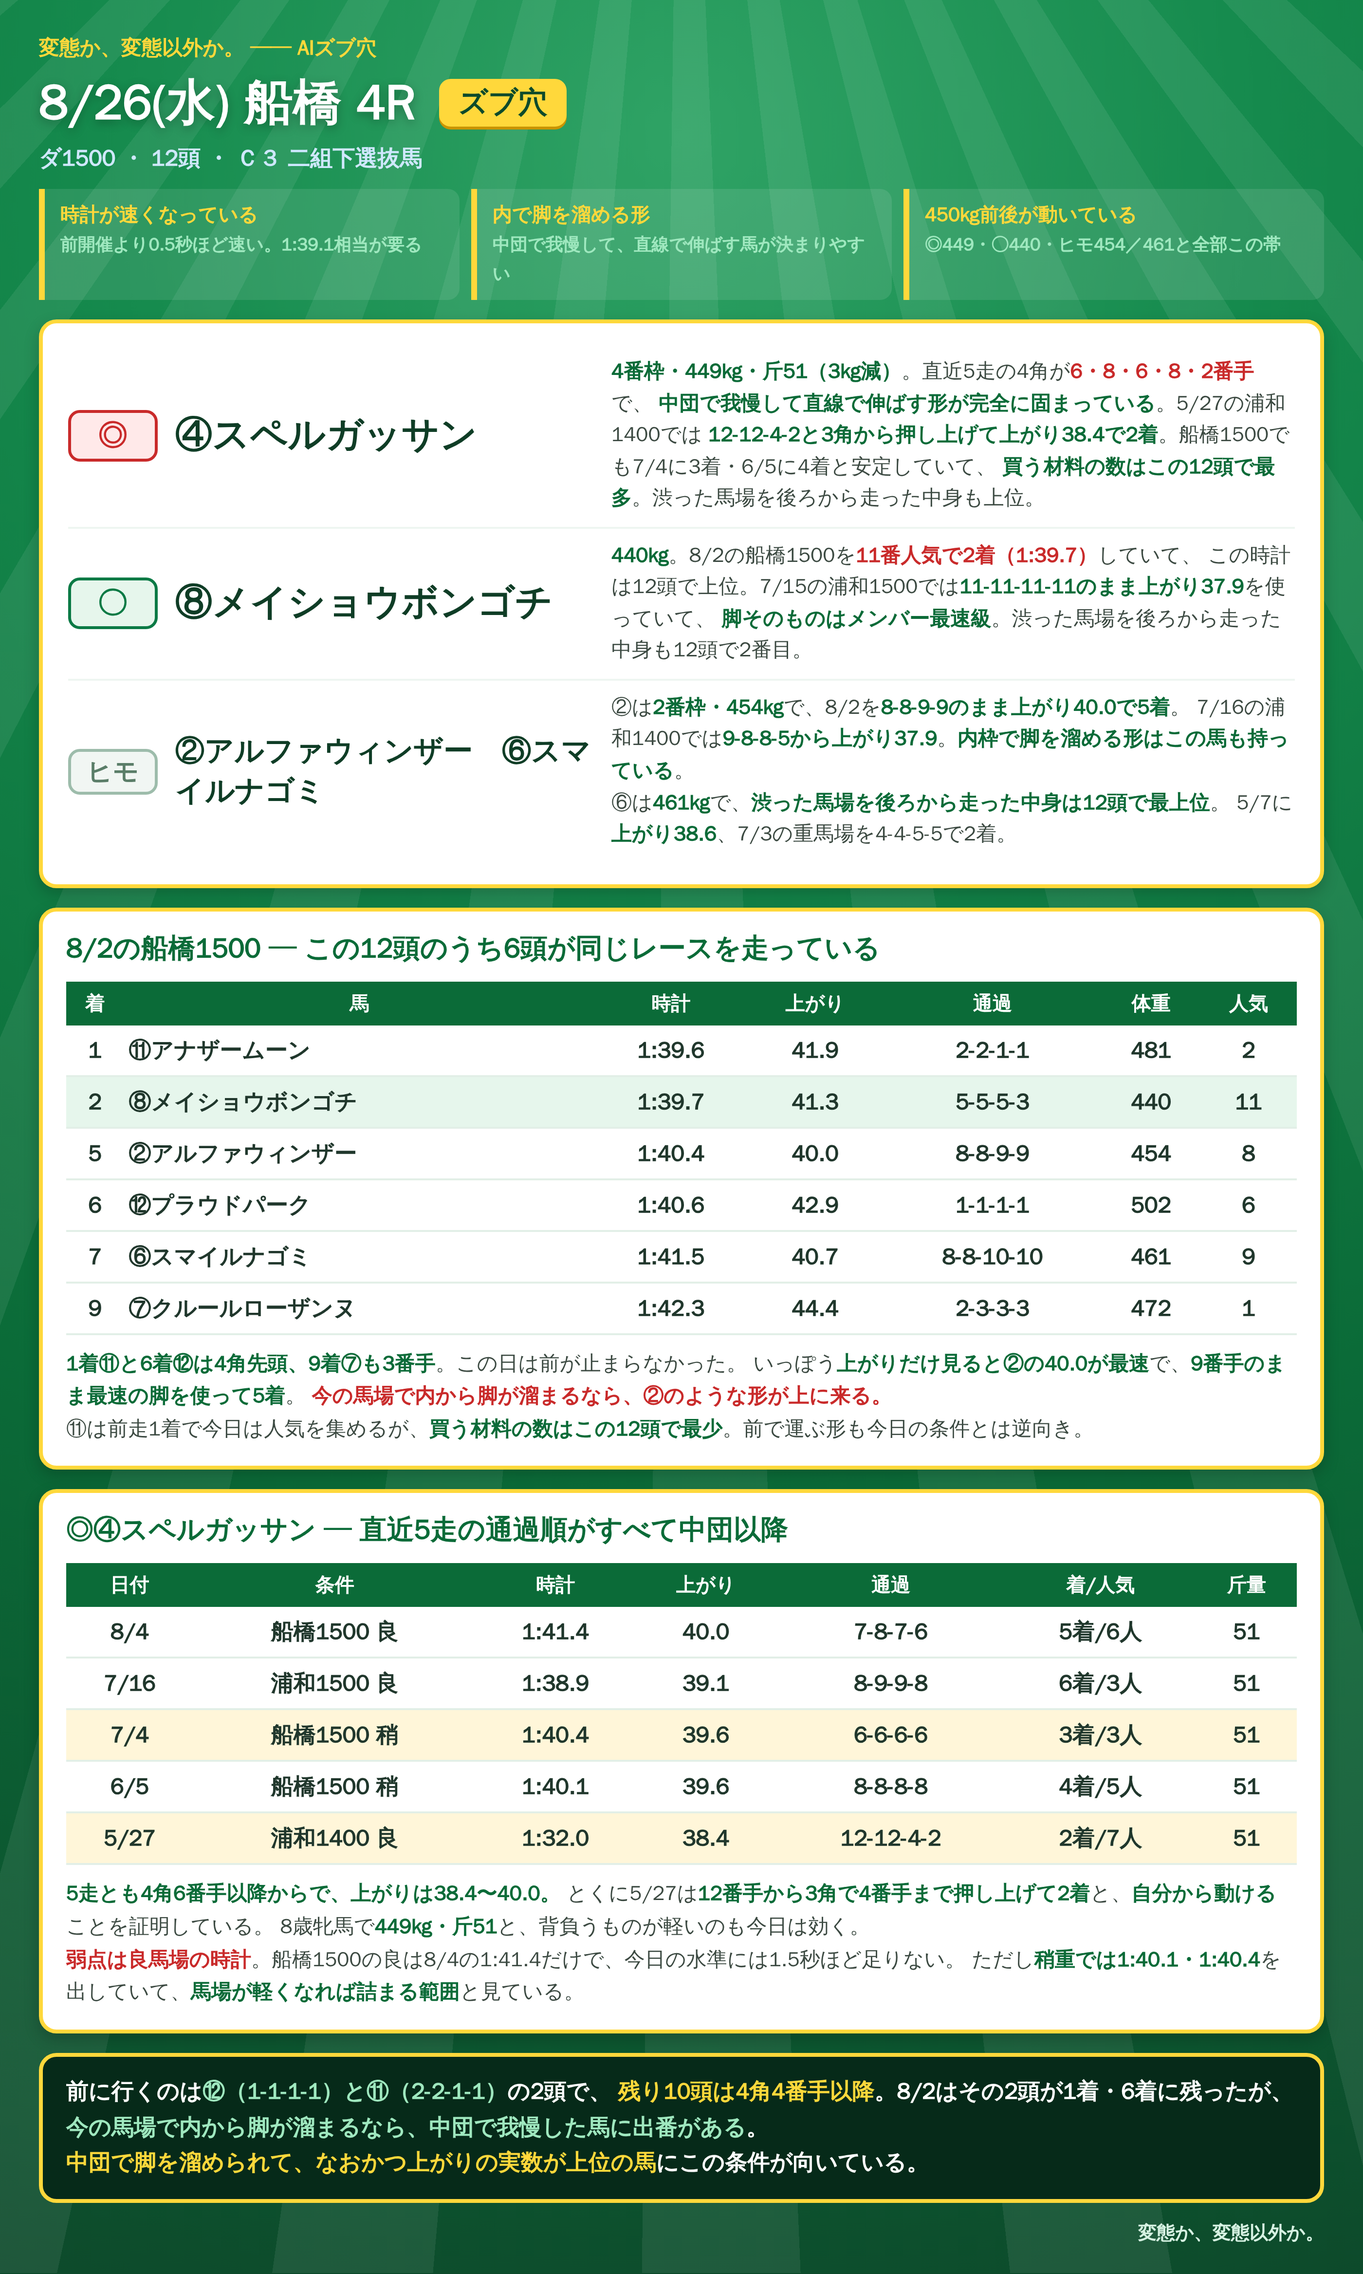
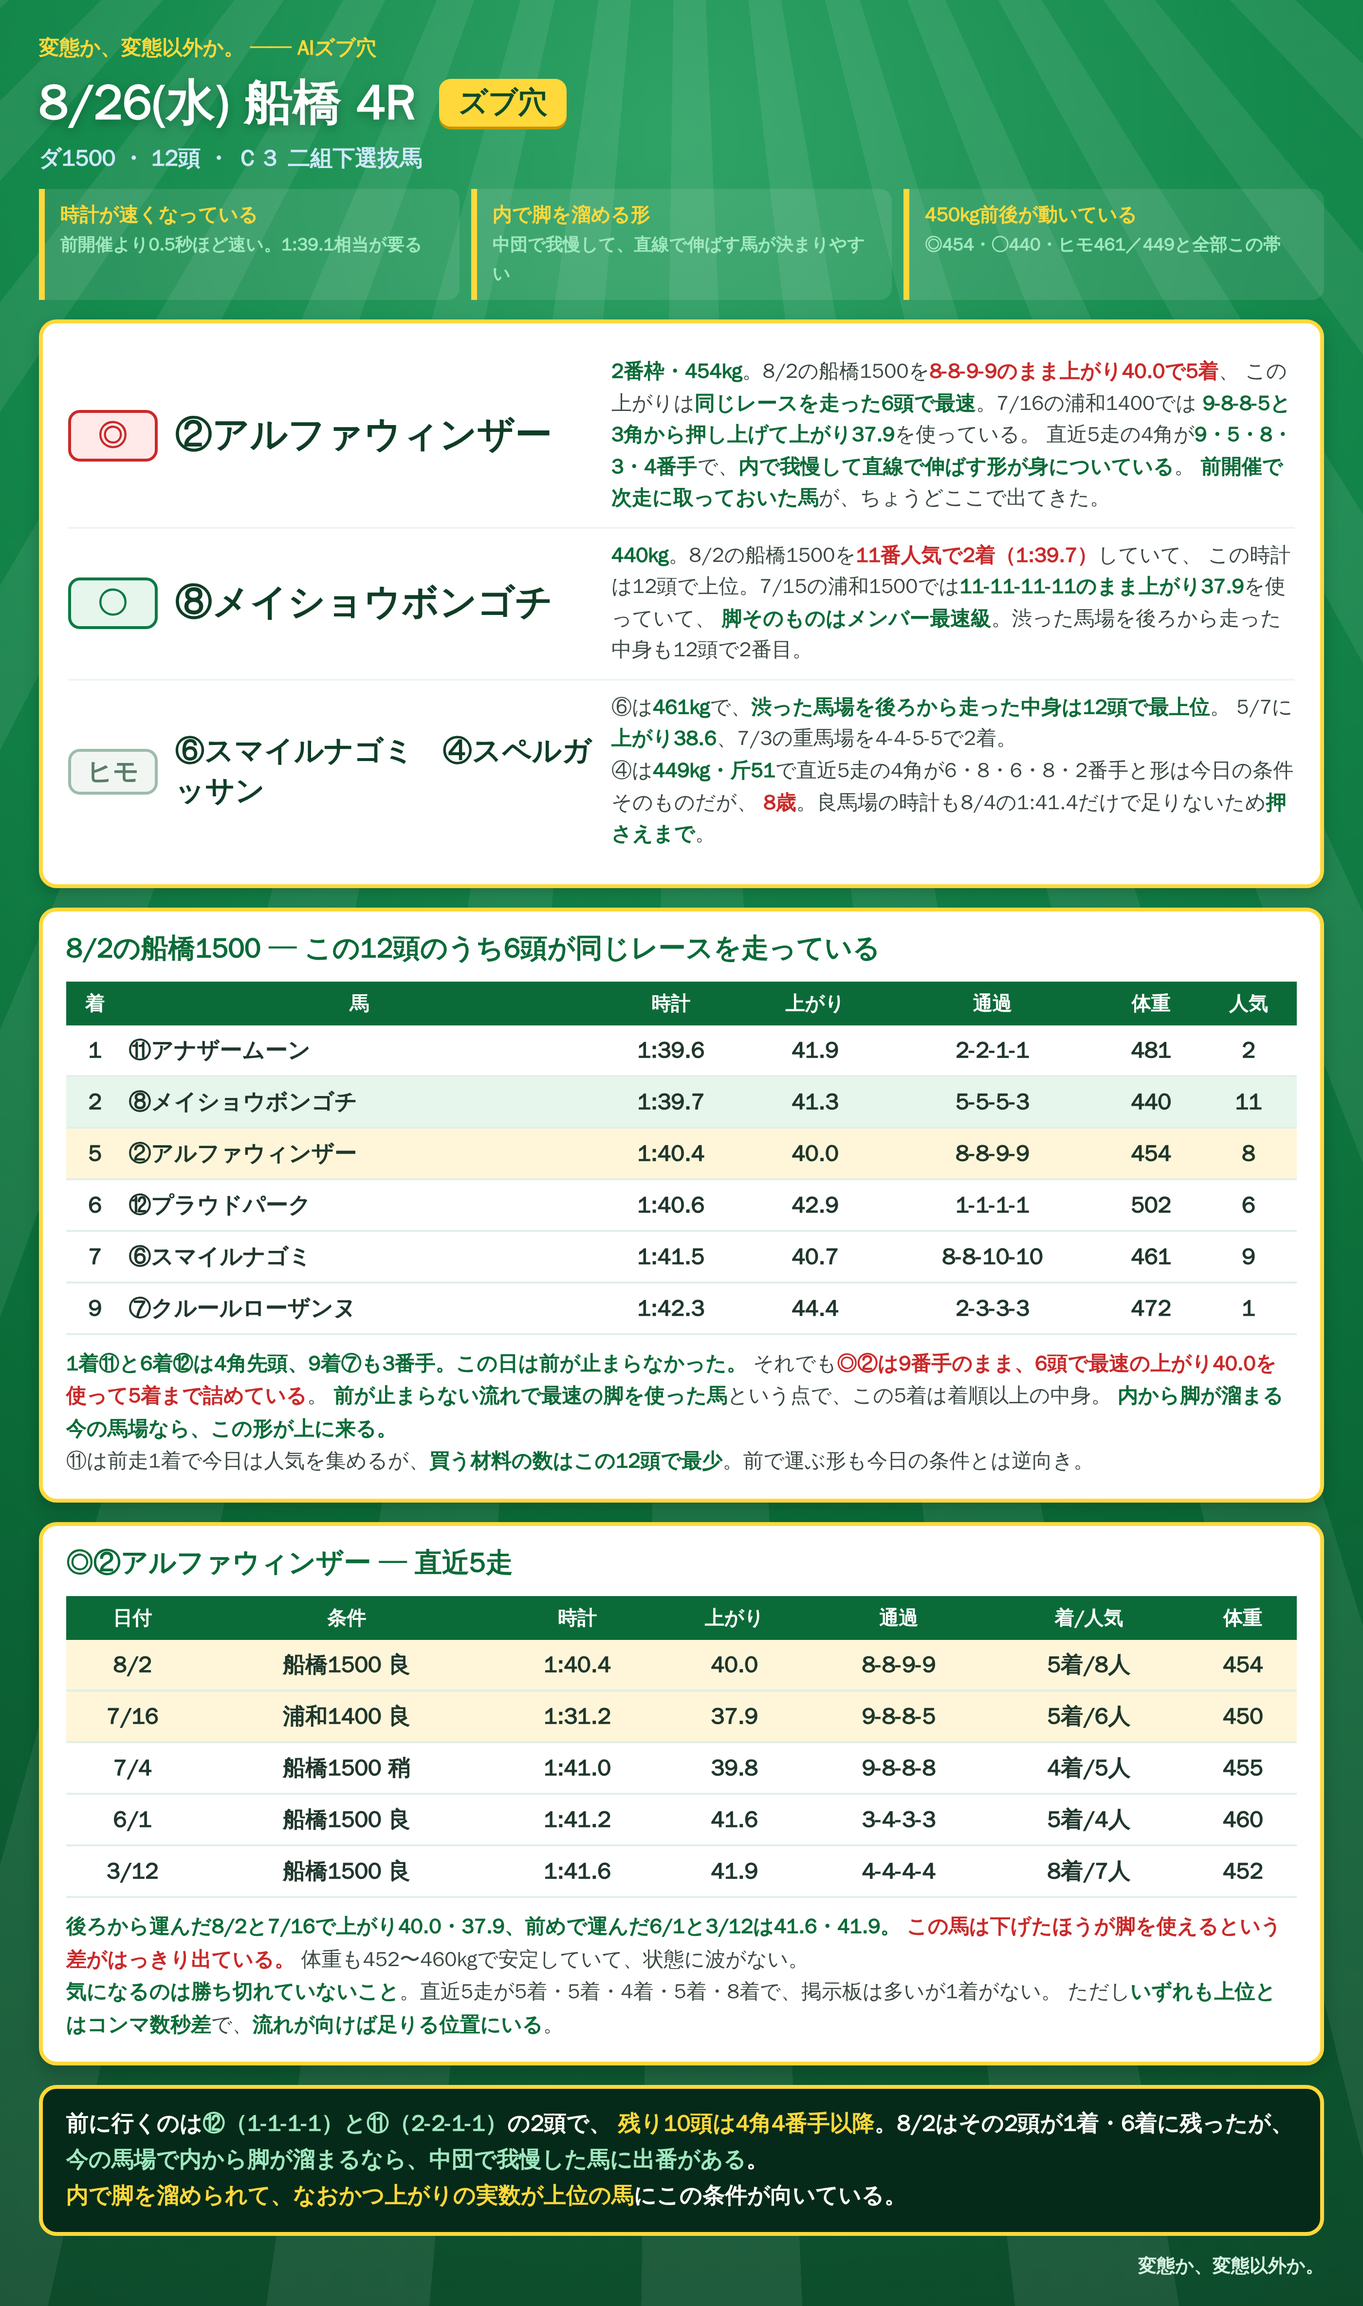
8/26 船橋 4R ◎②アルファウィンザーに差し替え
高齢（8歳）を理由に④スペルガッサンをヒモへ下げ、◎を②に変更。
②は8/2の同一レースで9番手のまま6頭最速の上がり40.0を使って5着、
7/16の浦和1400では9-8-8-5から上37.9。後ろから運んだ2走で40.0/37.9、
前めで運んだ2走で41.6/41.9と、下げたほうが脚を使える差がはっきり出ている。
前開催で次走注目に挙げていた馬でもある。

Claude-Session: https://claude.ai/code/session_01RoHscZkr96FNaxQWvUqgEw

diff --git a/notes/live/2026-08-26/funabashi_4R.html b/notes/live/2026-08-26/funabashi_4R.html
@@ -46,16 +46,17 @@
 <div class="reads">
  <div class="rd"><b>時計が速くなっている</b><br><span class="x">前開催より0.5秒ほど速い。1:39.1相当が要る</span></div>
  <div class="rd"><b>内で脚を溜める形</b><br><span class="x">中団で我慢して、直線で伸ばす馬が決まりやすい</span></div>
- <div class="rd"><b>450kg前後が動いている</b><br><span class="x">◎449・○440・ヒモ454／461と全部この帯</span></div>
+ <div class="rd"><b>450kg前後が動いている</b><br><span class="x">◎454・○440・ヒモ461／449と全部この帯</span></div>
 </div>
 
 <div class="picks">
  <div class="pr">
-  <div class="mk">◎</div><div class="nm">④スペルガッサン</div>
-  <div class="why"><b>4番枠・449kg・斤51（3kg減）</b>。直近5走の4角が<b class="r">6・8・6・8・2番手</b>で、
-  <b>中団で我慢して直線で伸ばす形が完全に固まっている</b>。5/27の浦和1400では
-  <b>12-12-4-2と3角から押し上げて上がり38.4で2着</b>。船橋1500でも7/4に3着・6/5に4着と安定していて、
-  <b>買う材料の数はこの12頭で最多</b>。渋った馬場を後ろから走った中身も上位。</div>
+  <div class="mk">◎</div><div class="nm">②アルファウィンザー</div>
+  <div class="why"><b>2番枠・454kg</b>。8/2の船橋1500を<b class="r">8-8-9-9のまま上がり40.0で5着</b>、
+  この上がりは<b>同じレースを走った6頭で最速</b>。7/16の浦和1400では
+  <b>9-8-8-5と3角から押し上げて上がり37.9</b>を使っている。
+  直近5走の4角が<b>9・5・8・3・4番手</b>で、<b>内で我慢して直線で伸ばす形が身についている</b>。
+  <b>前開催で次走に取っておいた馬</b>が、ちょうどここで出てきた。</div>
  </div>
  <div class="pr">
   <div class="mk mk2">○</div><div class="nm">⑧メイショウボンゴチ</div>
@@ -64,11 +65,11 @@
   <b>脚そのものはメンバー最速級</b>。渋った馬場を後ろから走った中身も12頭で2番目。</div>
  </div>
  <div class="pr">
-  <div class="mk mk3">ヒモ</div><div class="nm s">②アルファウィンザー　⑥スマイルナゴミ</div>
-  <div class="why">②は<b>2番枠・454kg</b>で、8/2を<b>8-8-9-9のまま上がり40.0で5着</b>。
-  7/16の浦和1400では<b>9-8-8-5から上がり37.9</b>。<b>内枠で脚を溜める形はこの馬も持っている</b>。<br>
-  ⑥は<b>461kg</b>で、<b>渋った馬場を後ろから走った中身は12頭で最上位</b>。
-  5/7に<b>上がり38.6</b>、7/3の重馬場を4-4-5-5で2着。</div>
+  <div class="mk mk3">ヒモ</div><div class="nm s">⑥スマイルナゴミ　④スペルガッサン</div>
+  <div class="why">⑥は<b>461kg</b>で、<b>渋った馬場を後ろから走った中身は12頭で最上位</b>。
+  5/7に<b>上がり38.6</b>、7/3の重馬場を4-4-5-5で2着。<br>
+  ④は<b>449kg・斤51</b>で直近5走の4角が6・8・6・8・2番手と形は今日の条件そのものだが、
+  <b class="r">8歳</b>。良馬場の時計も8/4の1:41.4だけで足りないため<b>押さえまで</b>。</div>
  </div>
 </div>
 
@@ -78,37 +79,38 @@
   <tr><th>着</th><th>馬</th><th>時計</th><th>上がり</th><th>通過</th><th>体重</th><th>人気</th></tr>
   <tr><td>1</td><td class="l">⑪アナザームーン</td><td>1:39.6</td><td>41.9</td><td>2-2-1-1</td><td>481</td><td>2</td></tr>
   <tr class="o"><td>2</td><td class="l">⑧メイショウボンゴチ</td><td><b>1:39.7</b></td><td>41.3</td><td>5-5-5-3</td><td>440</td><td><b>11</b></td></tr>
-  <tr><td>5</td><td class="l">②アルファウィンザー</td><td>1:40.4</td><td><b>40.0</b></td><td>8-8-9-9</td><td>454</td><td>8</td></tr>
+  <tr class="hi"><td>5</td><td class="l">②アルファウィンザー</td><td>1:40.4</td><td><b>40.0</b></td><td><b>8-8-9-9</b></td><td>454</td><td>8</td></tr>
   <tr><td>6</td><td class="l">⑫プラウドパーク</td><td>1:40.6</td><td>42.9</td><td>1-1-1-1</td><td>502</td><td>6</td></tr>
   <tr><td>7</td><td class="l">⑥スマイルナゴミ</td><td>1:41.5</td><td>40.7</td><td>8-8-10-10</td><td>461</td><td>9</td></tr>
   <tr><td>9</td><td class="l">⑦クルールローザンヌ</td><td>1:42.3</td><td>44.4</td><td>2-3-3-3</td><td>472</td><td><b>1</b></td></tr>
  </table>
- <div class="note"><b>1着⑪と6着⑫は4角先頭、9着⑦も3番手</b>。この日は前が止まらなかった。
- いっぽう<b>上がりだけ見ると②の40.0が最速</b>で、<b>9番手のまま最速の脚を使って5着</b>。
- <b class="r">今の馬場で内から脚が溜まるなら、②のような形が上に来る。</b><br>
+ <div class="note"><b>1着⑪と6着⑫は4角先頭、9着⑦も3番手。この日は前が止まらなかった。</b>
+ それでも<b class="r">◎②は9番手のまま、6頭で最速の上がり40.0を使って5着まで詰めている</b>。
+ <b>前が止まらない流れで最速の脚を使った馬</b>という点で、この5着は着順以上の中身。
+ <b>内から脚が溜まる今の馬場なら、この形が上に来る。</b><br>
  ⑪は前走1着で今日は人気を集めるが、<b>買う材料の数はこの12頭で最少</b>。前で運ぶ形も今日の条件とは逆向き。</div>
 </div>
 
 <div class="sec">
- <div class="sh">◎④スペルガッサン ─ 直近5走の通過順がすべて中団以降</div>
+ <div class="sh">◎②アルファウィンザー ─ 直近5走</div>
  <table>
-  <tr><th>日付</th><th>条件</th><th>時計</th><th>上がり</th><th>通過</th><th>着/人気</th><th>斤量</th></tr>
-  <tr><td>8/4</td><td>船橋1500 良</td><td>1:41.4</td><td>40.0</td><td>7-8-7-6</td><td>5着/6人</td><td>51</td></tr>
-  <tr><td>7/16</td><td>浦和1500 良</td><td>1:38.9</td><td>39.1</td><td>8-9-9-8</td><td>6着/3人</td><td>51</td></tr>
-  <tr class="hi"><td>7/4</td><td>船橋1500 稍</td><td>1:40.4</td><td>39.6</td><td>6-6-6-6</td><td><b>3着</b>/3人</td><td>51</td></tr>
-  <tr><td>6/5</td><td>船橋1500 稍</td><td>1:40.1</td><td>39.6</td><td>8-8-8-8</td><td>4着/5人</td><td>51</td></tr>
-  <tr class="hi"><td>5/27</td><td>浦和1400 良</td><td>1:32.0</td><td><b>38.4</b></td><td><b>12-12-4-2</b></td><td><b>2着</b>/7人</td><td>51</td></tr>
+  <tr><th>日付</th><th>条件</th><th>時計</th><th>上がり</th><th>通過</th><th>着/人気</th><th>体重</th></tr>
+  <tr class="hi"><td>8/2</td><td>船橋1500 良</td><td>1:40.4</td><td><b>40.0</b></td><td><b>8-8-9-9</b></td><td>5着/8人</td><td>454</td></tr>
+  <tr class="hi"><td>7/16</td><td>浦和1400 良</td><td>1:31.2</td><td><b>37.9</b></td><td><b>9-8-8-5</b></td><td>5着/6人</td><td>450</td></tr>
+  <tr><td>7/4</td><td>船橋1500 稍</td><td>1:41.0</td><td>39.8</td><td>9-8-8-8</td><td>4着/5人</td><td>455</td></tr>
+  <tr><td>6/1</td><td>船橋1500 良</td><td>1:41.2</td><td>41.6</td><td>3-4-3-3</td><td>5着/4人</td><td>460</td></tr>
+  <tr><td>3/12</td><td>船橋1500 良</td><td>1:41.6</td><td>41.9</td><td>4-4-4-4</td><td>8着/7人</td><td>452</td></tr>
  </table>
- <div class="note"><b>5走とも4角6番手以降からで、上がりは38.4〜40.0。</b>
- とくに5/27は<b>12番手から3角で4番手まで押し上げて2着</b>と、<b>自分から動ける</b>ことを証明している。
- 8歳牝馬で<b>449kg・斤51</b>と、背負うものが軽いのも今日は効く。<br>
- <b class="r">弱点は良馬場の時計</b>。船橋1500の良は8/4の1:41.4だけで、今日の水準には1.5秒ほど足りない。
- ただし<b>稍重では1:40.1・1:40.4</b>を出していて、<b>馬場が軽くなれば詰まる範囲</b>と見ている。</div>
+ <div class="note"><b>後ろから運んだ8/2と7/16で上がり40.0・37.9、前めで運んだ6/1と3/12は41.6・41.9。</b>
+ <b class="r">この馬は下げたほうが脚を使えるという差がはっきり出ている。</b>
+ 体重も452〜460kgで安定していて、状態に波がない。<br>
+ <b>気になるのは勝ち切れていないこと</b>。直近5走が5着・5着・4着・5着・8着で、掲示板は多いが1着がない。
+ ただし<b>いずれも上位とはコンマ数秒差</b>で、<b>流れが向けば足りる位置にいる</b>。</div>
 </div>
 
 <div class="foot">前に行くのは<span class="c">⑫（1-1-1-1）と⑪（2-2-1-1）</span>の2頭で、
 <span class="y">残り10頭は4角4番手以降</span>。8/2はその2頭が1着・6着に残ったが、
 <span class="c">今の馬場で内から脚が溜まるなら、中団で我慢した馬に出番がある</span>。<br>
-<span class="y">中団で脚を溜められて、なおかつ上がりの実数が上位の馬</span>にこの条件が向いている。</div>
+<span class="y">内で脚を溜められて、なおかつ上がりの実数が上位の馬</span>にこの条件が向いている。</div>
 <div class="sig">変態か、変態以外か。</div>
 </div></div></body></html>

diff --git a/notes/live/2026-08-26/README.md b/notes/live/2026-08-26/README.md
@@ -166,47 +166,55 @@
 
 画像: `funabashi_4R.png`
 
-| 印 | 馬 | 体重 | 枠 | 斤量 |
-|---|---|---|---|---|
-| ◎ | ④スペルガッサン | 449 | 4 | **51** |
-| ○ | ⑧メイショウボンゴチ | 440 | 8 | 56 |
-| ヒモ | ②アルファウィンザー／⑥スマイルナゴミ | 454／461 | 2／6 | 56／54 |
+| 印 | 馬 | 体重 | 枠 |
+|---|---|---|---|
+| ◎ | ②アルファウィンザー | 454 | 2 |
+| ○ | ⑧メイショウボンゴチ | 440 | 8 |
+| ヒモ | ⑥スマイルナゴミ／④スペルガッサン | 461／449 | 6／4 |
 
-**◎449・○440・ヒモ454／461 と、印を打った4頭が全部450kg前後の帯。**
+**◎454・○440・ヒモ461／449 と、印を打った4頭が全部450kg前後の帯。**
 
 ### 8/2の船橋1500（12頭中6頭が同じレース）
 
 | 着 | 馬 | 時計 | 上がり | 通過 | 体重 | 人気 |
 |---|---|---|---|---|---|---|
 | 1 | ⑪アナザームーン | 1:39.6 | 41.9 | 2-2-1-1 | 481 | 2 |
-| 2 | **⑧メイショウボンゴチ** | **1:39.7** | 41.3 | 5-5-5-3 | 440 | **11** |
-| 5 | ②アルファウィンザー | 1:40.4 | **40.0** | 8-8-9-9 | 454 | 8 |
+| 2 | ⑧メイショウボンゴチ | **1:39.7** | 41.3 | 5-5-5-3 | 440 | **11** |
+| 5 | **②アルファウィンザー** | 1:40.4 | **40.0** | **8-8-9-9** | 454 | 8 |
 | 6 | ⑫プラウドパーク | 1:40.6 | 42.9 | 1-1-1-1 | 502 | 6 |
 | 7 | ⑥スマイルナゴミ | 1:41.5 | 40.7 | 8-8-10-10 | 461 | 9 |
 | 9 | ⑦クルールローザンヌ | 1:42.3 | 44.4 | 2-3-3-3 | 472 | **1** |
 
 **1着⑪と6着⑫は4角先頭、9着⑦も3番手。この日は前が止まらなかった。**
-いっぽう**上がりだけ見ると②の40.0が最速**で、9番手のまま最速の脚を使って5着。
-内から脚が溜まるなら、②のような形が上に来る。
+それでも**◎②は9番手のまま、6頭で最速の上がり40.0を使って5着まで詰めている**。
+前が止まらない流れで最速の脚を使った馬という点で、この5着は着順以上の中身。
 
 ⑪は前走1着で人気を集めるが、**買う材料の数は12頭で最少**。前で運ぶ形も今日の条件とは逆向きのため印を回していない。
 
-### ◎④スペルガッサン ─ 直近5走の通過順がすべて中団以降
+### ◎②アルファウィンザー ─ 直近5走
 
-| 日付 | 条件 | 時計 | 上がり | 通過 | 着/人気 | 斤量 |
+| 日付 | 条件 | 時計 | 上がり | 通過 | 着/人気 | 体重 |
 |---|---|---|---|---|---|---|
-| 8/4 | 船橋1500 良 | 1:41.4 | 40.0 | 7-8-7-6 | 5着/6人 | 51 |
-| 7/16 | 浦和1500 良 | 1:38.9 | 39.1 | 8-9-9-8 | 6着/3人 | 51 |
-| 7/4 | 船橋1500 稍 | 1:40.4 | 39.6 | 6-6-6-6 | **3着**/3人 | 51 |
-| 6/5 | 船橋1500 稍 | 1:40.1 | 39.6 | 8-8-8-8 | 4着/5人 | 51 |
-| 5/27 | 浦和1400 良 | 1:32.0 | **38.4** | **12-12-4-2** | **2着**/7人 | 51 |
+| 8/2 | 船橋1500 良 | 1:40.4 | **40.0** | **8-8-9-9** | 5着/8人 | 454 |
+| 7/16 | 浦和1400 良 | 1:31.2 | **37.9** | **9-8-8-5** | 5着/6人 | 450 |
+| 7/4 | 船橋1500 稍 | 1:41.0 | 39.8 | 9-8-8-8 | 4着/5人 | 455 |
+| 6/1 | 船橋1500 良 | 1:41.2 | 41.6 | 3-4-3-3 | 5着/4人 | 460 |
+| 3/12 | 船橋1500 良 | 1:41.6 | 41.9 | 4-4-4-4 | 8着/7人 | 452 |
 
-5走とも4角6番手以降からで、上がりは38.4〜40.0。
-とくに5/27は**12番手から3角で4番手まで押し上げて2着**と、**自分から動ける**ことを証明している。
-8歳牝馬で449kg・斤51と背負うものが軽いのも今日は効く。
+**後ろから運んだ8/2と7/16で上がり40.0・37.9、前めで運んだ6/1と3/12は41.6・41.9。**
+**この馬は下げたほうが脚を使えるという差がはっきり出ている。**
+体重も452〜460kgで安定していて、状態に波がない。
 
-**弱点は良馬場の時計。** 船橋1500の良は8/4の1:41.4だけで、今日の水準には1.5秒ほど足りない。
-ただし稍重では1:40.1・1:40.4を出していて、馬場が軽くなれば詰まる範囲と見ている。
+**前開催で次走注目に挙げていた馬**（8/2 9R 5着）が、ちょうどここで出てきた。
+
+気になるのは勝ち切れていないこと。直近5走が5着・5着・4着・5着・8着で掲示板は多いが1着がない。
+ただしいずれも上位とはコンマ数秒差で、流れが向けば足りる位置にいる。
+
+### ④スペルガッサンをヒモに下げた理由
+
+449kg・斤51で直近5走の4角が6・8・6・8・2番手と、**形は今日の条件そのもの**。
+5/27の浦和1400では12-12-4-2から上38.4で2着もある。
+ただし**8歳**で、良馬場の時計も8/4の1:41.4だけと今日の水準に1.5秒足りない。**押さえまでとした。**
 
 ### 展開
 
